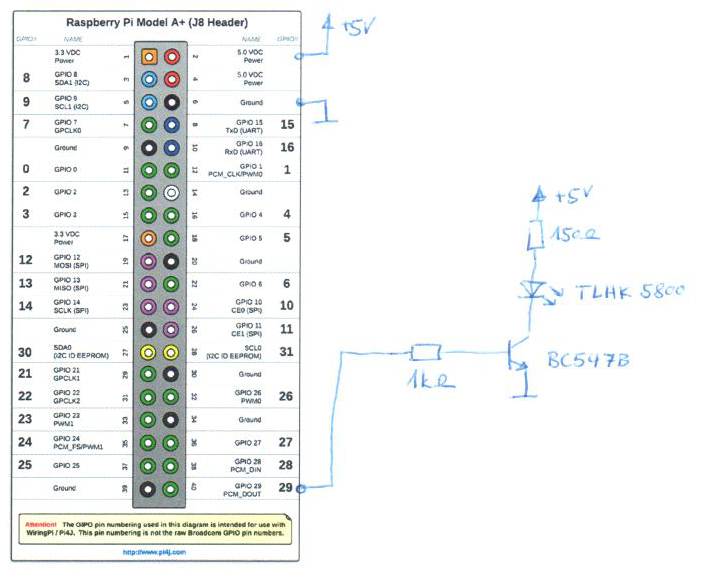
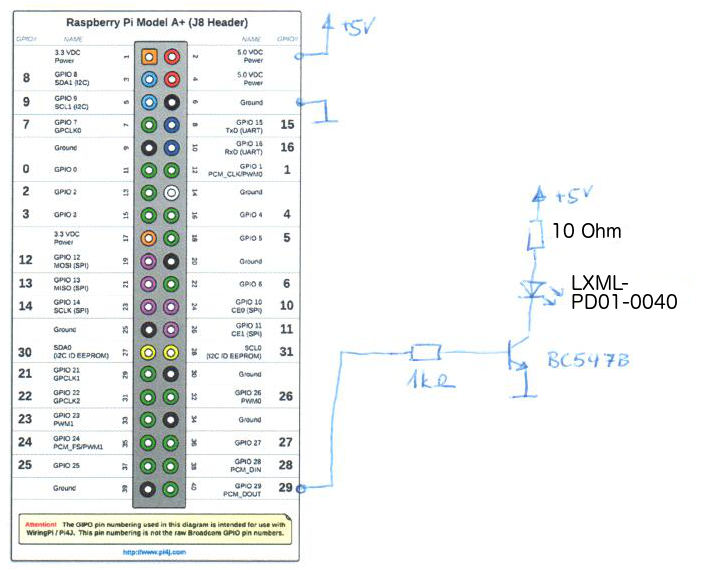
Changes LED

Changed region(s): [[0.8077, 0.4772, 0.9872, 0.5667], [0.7778, 0.3877, 0.8974, 0.4175]]

diff --git a/README.md b/README.md
@@ -5,7 +5,8 @@
 | --- | --- | --- |
 | Raspberry Pi Model A+ 256 MB ohne Betriebssystem | 1299810 - 62 | 29.95 |
 | Raspberry Pi® WLAN-Stick EDIMAX EW-7811Un | 993655 - 62 | 9.95 |
-| LED bedrahtet Rot Rund 5 mm 5500 mcd 4 ° 20 mA 1.9 V Vishay TLHK 5800 | 184350 - 62 | 0.45 |
+| LED-Reflektor Chrom | 170206-62 | 3.20 |
+| HighPower-LED Rot 75 lm 125 ° 2.9 V 700 mA Luxeon Lumileds LXML-PD01-0040 | 170202-62 | 2.45 |
 | microSDHC-Karte 16 GB | 284241 - 62 | 10.95 |
 | USB-Ladegerät Steckdose 1200 mA 1 x Micro-USB | 514691 - 62 | 8.95 |
 
